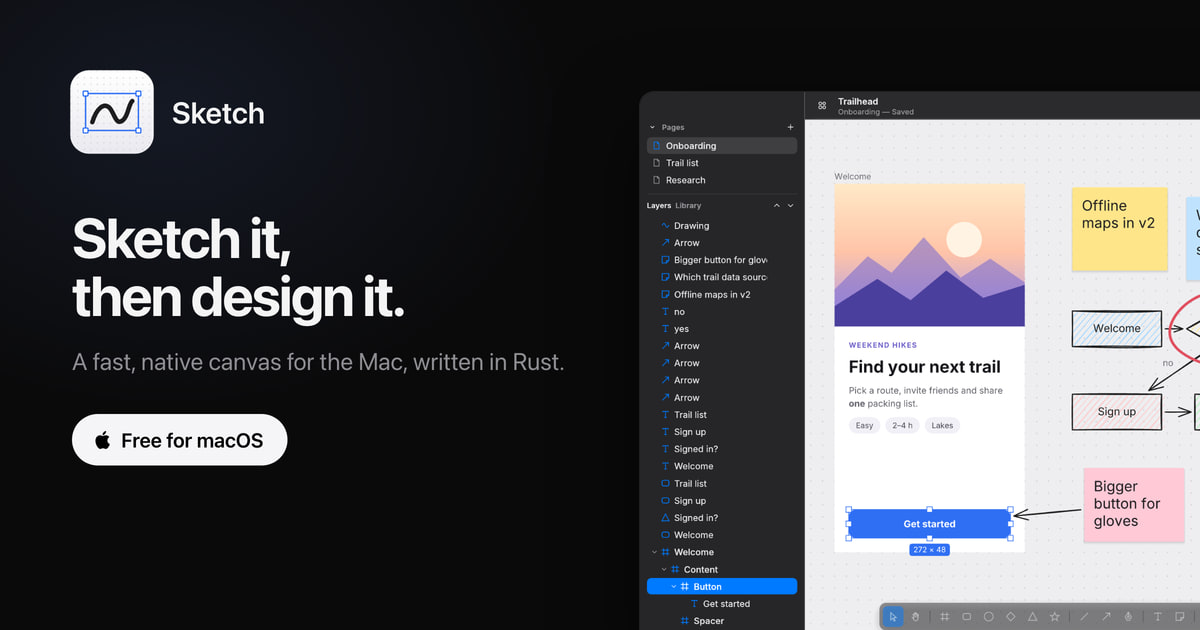
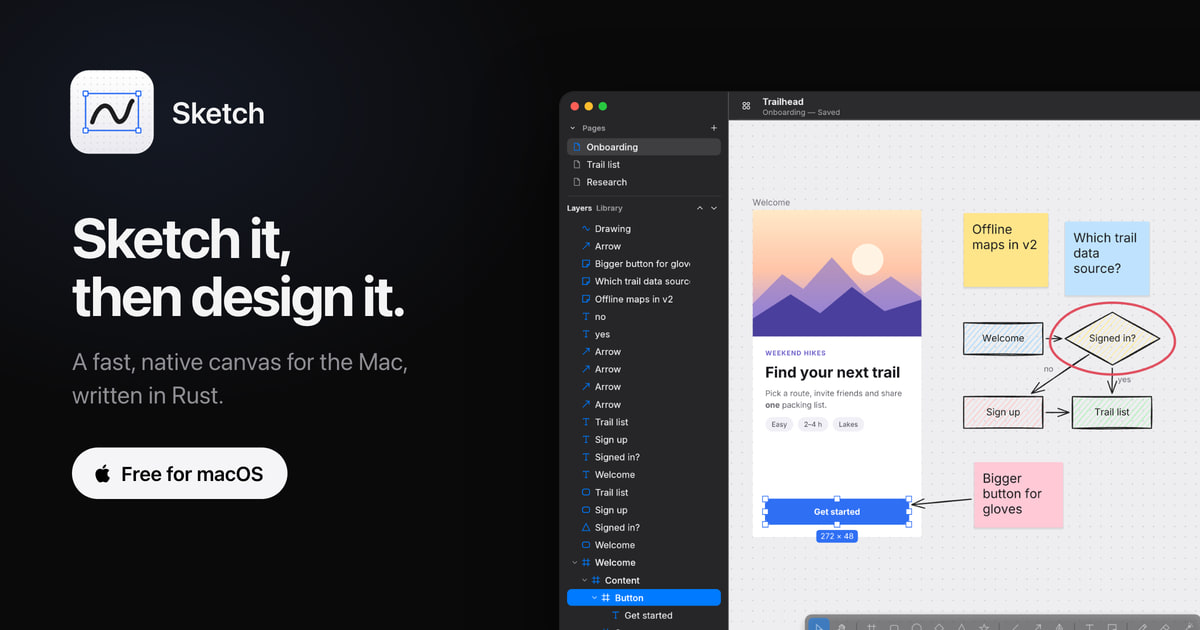
feat(site): show the whole board in the Open Graph card
The card cropped the app window at its right edge, so it showed the
layers list and the phone design but cut the board off at the first
sticky note. The capture now fits the board into the part of the window
the card shows, so the hand-drawn flow, the sticky notes and the phone
design all fit. The window sits 80 px further left behind a narrower
copy column and gets the traffic lights macOS would draw on it.

npm run shots now renders one dark og.png. The light capture fed
nothing.

Changed region(s): [[0.3392, 0.1206, 1.0, 1.0], [0.0617, 0.6032, 0.2467, 0.8143]]

diff --git a/site/scripts/brand/og.html b/site/scripts/brand/og.html
@@ -12,6 +12,11 @@
 				overflow: hidden;
 			}
 			body {
+				/* The capture fits its board into the part of the window this card shows. Keep CARD_SHOWS
+				   in scripts/screenshots in step with these. */
+				--shot-x: 560px;
+				--shot-y: 92px;
+				--pt: calc(900px / 1280);
 				position: relative;
 				background:
 					radial-gradient(ellipse 560px 420px at 14% 18%, rgba(110, 155, 255, 0.1), transparent 70%),
@@ -24,7 +29,7 @@
 				position: absolute;
 				left: 72px;
 				top: 72px;
-				width: 540px;
+				width: 400px;
 			}
 			.brand {
 				display: flex;
@@ -71,13 +76,34 @@
 			}
 			.shot {
 				position: absolute;
-				left: 640px;
-				top: 92px;
-				width: 880px;
+				left: var(--shot-x);
+				top: var(--shot-y);
+				width: calc(1280 * var(--pt));
 				border-radius: 14px;
 				box-shadow:
 					0 0 0 1px rgba(255, 255, 255, 0.1),
 					0 30px 80px rgba(0, 0, 0, 0.6);
+			}
+			/* macOS draws these over the window, so the capture lacks them. The app insets them 14 pt
+			   into its 40 pt toolbar. */
+			.lights {
+				position: absolute;
+				left: calc(var(--shot-x) + 15 * var(--pt));
+				top: calc(var(--shot-y) + 14 * var(--pt));
+				display: flex;
+				gap: calc(8 * var(--pt));
+			}
+			.lights i {
+				width: calc(12 * var(--pt));
+				height: calc(12 * var(--pt));
+				border-radius: 50%;
+				background: #ff5f57;
+			}
+			.lights i:nth-child(2) {
+				background: #febc2e;
+			}
+			.lights i:nth-child(3) {
+				background: #28c840;
 			}
 		</style>
 	</head>
@@ -95,6 +121,7 @@
 				Free for macOS
 			</div>
 		</div>
-		<img class="shot" src="../screenshots/out/app-dark.png" alt="" />
+		<img class="shot" src="../screenshots/out/og.png" alt="" />
+		<div class="lights"><i></i><i></i><i></i></div>
 	</body>
 </html>

diff --git a/site/scripts/screenshots/src/main.rs b/site/scripts/screenshots/src/main.rs
@@ -1,5 +1,6 @@
 //! Builds a sample project with sketch-rs's own MCP tools on a headless session, then renders
-//! the full app UI (Mac layout, light and dark) through sketch-rs's egui + wgpu frame code.
+//! the full app UI (Mac layout, dark) through sketch-rs's egui + wgpu frame code into `og.png`
+//! for the Open Graph card.
 //!
 //!   sketch-rs-site-shots OUT_DIR
 
@@ -18,6 +19,10 @@ const PROJECT: &str = "Trailhead";
 /// Window size in points, and the scale that makes the capture 2160 px wide.
 const WINDOW: [f32; 2] = [1280.0, 800.0];
 const PPP: f32 = 2160.0 / 1280.0;
+/// Points of the window, from its left edge, that the card shows. `scripts/brand/og.html` places
+/// the window at x = 560, at 900 / 1280 px per point, and the card's right edge at x = 1200 crops
+/// the rest.
+const CARD_SHOWS: f32 = (1200.0 - 560.0) / 900.0 * WINDOW[0];
 
 fn call(h: &mut exec::SessionHost, name: &str, args: Value) -> Value {
     match exec::call(h, name, &args) {
@@ -204,15 +209,11 @@ fn build(root: &Path) -> (exec::SessionHost, NodeId) {
     (h, button)
 }
 
-/// `frame::capture`, with the appearance chosen instead of falling back to light.
-fn capture(gpu: &Headless, ed: &mut Editor, st: &mut UiState, dark: bool) -> image::RgbaImage {
+/// `frame::capture` in dark mode, which it can't choose.
+fn capture(gpu: &Headless, ed: &mut Editor, st: &mut UiState) -> image::RgbaImage {
     let ctx = egui::Context::default();
     ui::setup_style(&ctx);
-    ctx.set_theme(if dark {
-        egui::Theme::Dark
-    } else {
-        egui::Theme::Light
-    });
+    ctx.set_theme(egui::Theme::Dark);
     let size = [
         (WINDOW[0] * PPP).round() as u32,
         (WINDOW[1] * PPP).round() as u32,
@@ -237,20 +238,22 @@ fn capture(gpu: &Headless, ed: &mut Editor, st: &mut UiState, dark: bool) -> ima
     let view = tex.create_view(&Default::default());
     for pass in 0..4 {
         let l = frame::layout(&ctx, input(), ed, st);
-        painter.paint(&gpu.device, &gpu.queue, &view, size, &ctx, l, ed, true);
         if pass == 0 {
-            frame_camera(ed);
+            frame_camera(ed, l.canvas);
         }
+        painter.paint(&gpu.device, &gpu.queue, &view, size, &ctx, l, ed, true);
     }
     gpu.read(&tex)
 }
 
-/// Fit the content above the floating tool bar, leaving room for frame labels.
-fn frame_camera(ed: &mut Editor) {
+/// Fit the content into the part of the canvas the card shows, above the floating tool bar and
+/// with room for frame labels.
+fn frame_camera(ed: &mut Editor, canvas: egui::Rect) {
     let b = ed.doc.content_bounds().expect("empty page");
     let b = Rect::new(b.x - 8.0, b.y - 30.0, b.w + 16.0, b.h + 38.0);
-    let view = v2(ed.viewport.x, ed.viewport.y - 56.0);
-    ed.camera.fit(&b, view, 36.0, 1.0);
+    let shown = (CARD_SHOWS - canvas.min.x).min(canvas.width());
+    let view = v2(shown as f64, ed.viewport.y - 56.0);
+    ed.camera.fit(&b, view, 28.0, 1.0);
     ed.revision += 1;
 }
 
@@ -261,27 +264,21 @@ fn main() {
     let (mut h, _button) = build(&root);
     let gpu = Headless::new().expect("no GPU adapter");
     println!("adapter: {}", gpu.adapter_info.name);
-    for dark in [false, true] {
-        let mut st = UiState {
-            native_chrome: true,
-            project_name: PROJECT.into(),
-            save_state: "Saved".into(),
-            ..Default::default()
-        };
-        let img = capture(&gpu, &mut h.ed, &mut st, dark);
-        let path = out.join(if dark {
-            "app-dark.png"
-        } else {
-            "app-light.png"
-        });
-        img.save(&path).unwrap();
-        println!(
-            "wrote {} ({}x{})",
-            path.display(),
-            img.width(),
-            img.height()
-        );
-    }
+    let mut st = UiState {
+        native_chrome: true,
+        project_name: PROJECT.into(),
+        save_state: "Saved".into(),
+        ..Default::default()
+    };
+    let img = capture(&gpu, &mut h.ed, &mut st);
+    let path = out.join("og.png");
+    img.save(&path).unwrap();
+    println!(
+        "wrote {} ({}x{})",
+        path.display(),
+        img.width(),
+        img.height()
+    );
     drop(h);
     let _ = std::fs::remove_dir_all(&root);
 }

diff --git a/site/README.md b/site/README.md
@@ -36,14 +36,14 @@ npm run preview   # serves the build, including /download
 Everything in `static/` comes from two scripts:
 
 ```sh
-npm run shots    # renders scripts/screenshots/out/app-{light,dark}.png with Sketch itself
+npm run shots    # renders scripts/screenshots/out/og.png with Sketch itself
 npm run images   # favicons, the touch icon and og.jpg into static/
 ```
 
 `npm run shots` builds `scripts/screenshots`, a small Rust program that links the Sketch library
 from the root of this repository. It builds the board through Sketch's MCP tools and renders it
-with the app's own renderer in both themes, at 2160 × 1350. The Open Graph card uses the dark
-capture, so rerun it when the app's look changes. Its Cargo target directory defaults to
+with the app's own renderer in dark mode, at 2160 × 1350, framed for the part of the window the
+Open Graph card shows. Rerun it when the app's look changes. Its Cargo target directory defaults to
 `~/.cache/sketch-rs-site-shots`; set `CARGO_TARGET_DIR` to change it.
 
 `npm run images` needs Google Chrome to render the Open Graph card from
